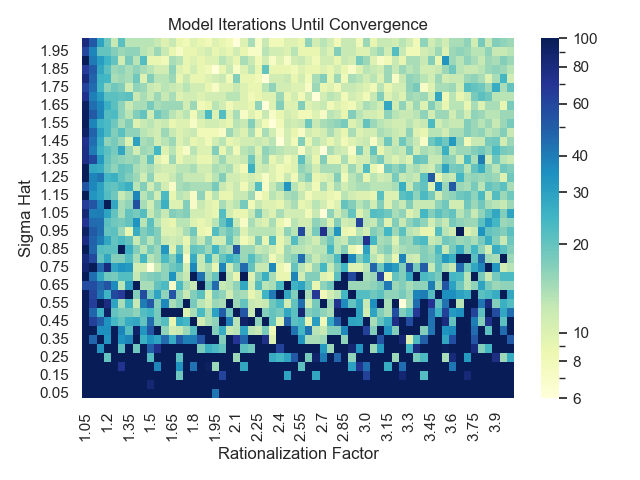
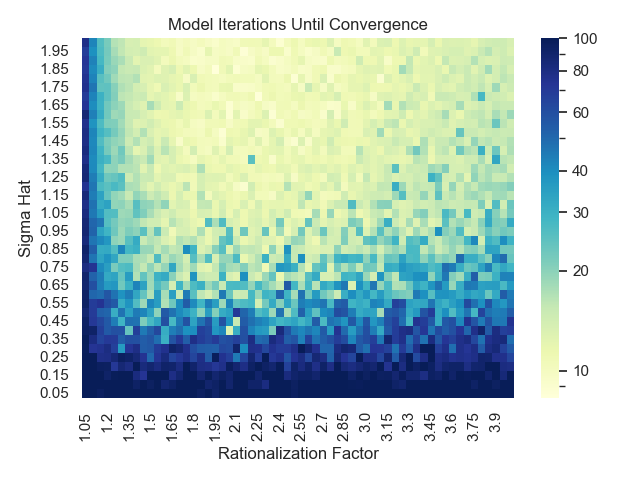
Convergence Heatmap with multiple runs per param set

diff --git a/simulated-agent-model/convergenceHeatmap.py b/simulated-agent-model/convergenceHeatmap.py
@@ -2,6 +2,7 @@ import seaborn as sns; sns.set_theme()
 import matplotlib.pyplot as plt
 import argparse
 import pandas as pd
+from os.path import exists
 
 from model import runModel
 
@@ -22,10 +23,18 @@ def main(args):
     filePath = '../figs/simulation-figs/Heatmaps/{}{}-{}-iter-Heat'.format('m-' if args.toMean else '', args.numVoters, args.iterations)
 
     # save and read back in data
+    while exists(filePath+'.csv'):
+      filePath+='+'
     DF.to_csv(filePath+'.csv')
   else:
     filePath = '../figs/simulation-figs/Heatmaps/' + args.loadFile
   DFLoad = pd.read_csv(filePath+'.csv', header=0, index_col=0)
+  count = 1
+  while filePath[-1]=='+':
+    filePath=filePath[:-1]
+    DFLoad=DFLoad+pd.read_csv(filePath+'.csv', header=0, index_col=0)
+    count+=1
+  DFLoad = DFLoad/count
 
   sns.heatmap(DFLoad, cmap="YlGnBu", norm=LogNorm(), cbar_kws={'ticks': [6,8,10,20,30,40,60,80,100,200,300,400,600,800,1000], 'format':'%.i'})
   plt.xlabel("Rationalization Factor")
